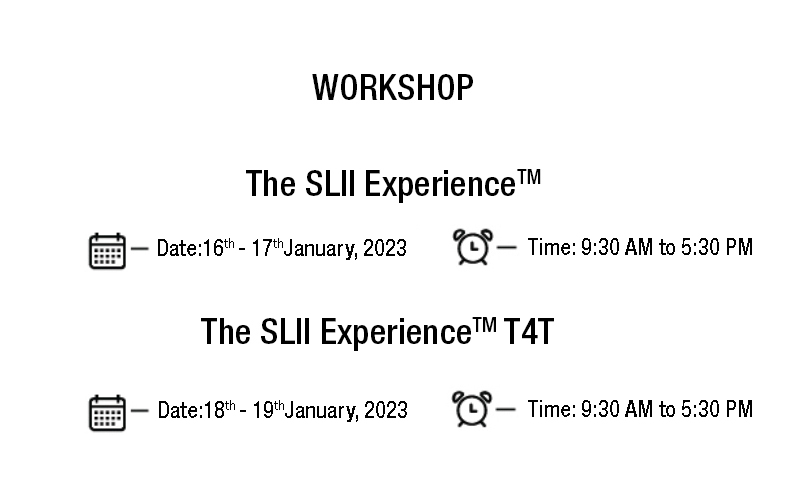
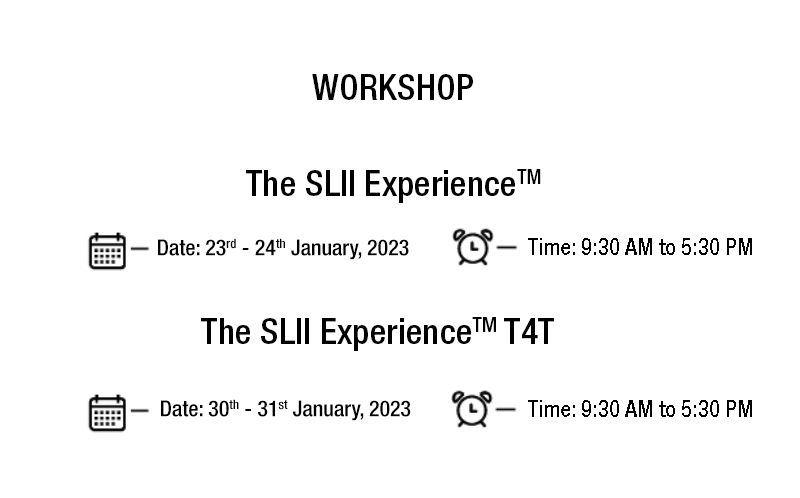
qwyik

Changed region(s): [[0.1875, 0.7831, 0.5312, 0.8434], [0.1875, 0.4819, 0.5312, 0.5422]]

diff --git a/pages/events-workshops/virtual-public-workshop.js b/pages/events-workshops/virtual-public-workshop.js
@@ -68,8 +68,10 @@ export default function VirtualPublicWorkshop() {
                <div className="col-sm-4">
                      <div className="choose-card">
                         <img src="/assets/img/workshopformain1.jpg" alt="Images"/>
-                        <h3>The SLII Experience™ - Virtual</h3>
+                        <h3 className="mbb-0">The SLII Experience™ - Virtual</h3>
                         <p>January 23rd - 24th, 2023</p>
+                        <h3 className="ptt10 mbb-0">The SLII Experience™ T4T</h3>
+                        <p>January 30th - 31st, 2023</p>
                         <div className='row eventsbottomarea2 text-center'>
                            <div className='col-sm-12'>
                               <a href="/events-workshops/virtual-public-workshop#REQUEST" className="default-btn-two">REQUEST INFO<i className="bx bx-right-arrow-alt"></i></a>
@@ -78,7 +80,7 @@ export default function VirtualPublicWorkshop() {
                      </div>
                   </div>
 
-                  <div className="col-sm-4">
+                  <div className="col-sm-4 d-none">
                      <div className="choose-card">
                         <img src="/assets/img/workshopformain1.jpg" alt="Images"/>
                         <h3>The SLII Experience™ T4T F2F</h3>
@@ -146,7 +148,7 @@ export default function VirtualPublicWorkshop() {
                            <select name="leadsquared_mx_Showed_Interest_in" className="form-control" required>
                               <option value="">---</option>                              
                               <option value="The SLII Experience™ - Virtual - January 23rd - 24th, 2023">The SLII Experience™ - Virtual - January 23rd - 24th, 2023</option>
-                              <option value="The SLII Experience™ T4T F2F - January 30th - 31st, 2023">The SLII Experience™ T4T F2F - January 30th - 31st, 2023</option>
+                              <option value="The SLII Experience™ T4T - January 30th - 31st, 2023">The SLII Experience™ T4T - January 30th - 31st, 2023</option>
                            </select>
                         </div>
                      </div>

diff --git a/pages/events-workshops/index.js b/pages/events-workshops/index.js
@@ -45,8 +45,10 @@ export default function EventsAndWorkshop() {
                <div className="col-sm-4">
                      <div className="choose-card">
                         <img src="/assets/img/workshopformain1.jpg" alt="Images"/>
-                        <h3>The SLII Experience™ - Virtual</h3>
+                        <h3 className="mbb-0">The SLII Experience™ - Virtual</h3>
                         <p>January 23rd - 24th, 2023</p>
+                        <h3 className="ptt10 mbb-0">The SLII Experience™ T4T</h3>
+                        <p>January 30th - 31st, 2023</p>
                         <div className='row eventsbottomarea2 text-center'>
                            <div className='col-sm-12'>
                               <a href="/events-workshops/virtual-public-workshop#REQUEST" className="default-btn-two">REQUEST INFO<i className="bx bx-right-arrow-alt"></i></a>
@@ -55,7 +57,7 @@ export default function EventsAndWorkshop() {
                      </div>
                   </div>
 
-                  <div className="col-sm-4">
+                  <div className="col-sm-4 d-none">
                      <div className="choose-card">
                         <img src="/assets/img/workshopformain1.jpg" alt="Images"/>
                         <h3>The SLII Experience™ T4T F2F</h3>

diff --git a/pages/lp/slx-lp.js b/pages/lp/slx-lp.js
@@ -102,7 +102,7 @@ export default function HybridWorkplaces() {
                            <select name="interest_in" className="form-control" required>
                               <option value="">---Select---</option>
                               <option value="The SLII Experience™ - Virtual - January 23rd - 24th, 2023">The SLII Experience™ - Virtual - January 23rd - 24th, 2023</option>
-                              <option value="The SLII Experience™ T4T F2F - January 30th - 31st, 2023">The SLII Experience™ T4T F2F - January 30th - 31st, 2023</option>                              
+                              <option value="The SLII Experience™ T4T - January 30th - 31st, 2023">The SLII Experience™ T4T - January 30th - 31st, 2023</option>
                            </select>
                            <div className="help-block with-errors"></div>
                         </div>

diff --git a/public/assets/css/style.css b/public/assets/css/style.css
@@ -113,6 +113,12 @@ img {
 .border-radius-50 {
     border-radius: 50px !important;
 }
+.mbb-0{
+    margin-bottom: 0px !important;
+}
+.ptt10{
+    padding-top: 10px;
+}
 .default-btn {
     padding: 12px 32px;
     color: #fff;
